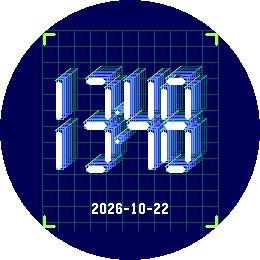
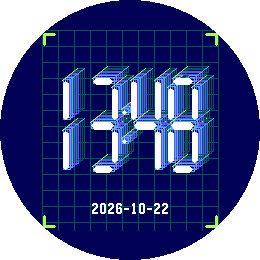
Keep Way Back foreground fixed during echo reversal

Changed region(s): [[0.2154, 0.2462, 0.8308, 0.6769]]

diff --git a/execution/capture_store_media.py b/execution/capture_store_media.py
@@ -20,6 +20,13 @@ WATCHFACE = ROOT / "watchface"
 CAPTURES = ROOT / ".tmp" / "store-media"
 MEDIA = ROOT / "media"
 SIZES = {"emery": (200, 228), "gabbro": (260, 260)}
+FRONT_COLORS = {
+    "color-slices": (255, 255, 255),
+    "amber-mesh": (255, 255, 170),
+    "daylight-dots": (0, 0, 85),
+    "graphite-rings": (255, 255, 255),
+    "green-stars": (255, 255, 255),
+}
 
 # Each pair uses the same fixed 13:48 time and simulated upward wrist angle.
 # Direction 0/1 is the only difference within a pair.
@@ -67,6 +74,18 @@ def has_complete_date(path: Path, look: int, platform: str) -> bool:
         return ink > 90
 
 
+def foreground_mask(image: Image.Image, color: tuple[int, int, int]) -> set[tuple[int, int]]:
+    pixels = image.load()
+    width, height = image.size
+    # Exclude edge decorations, which can be occluded by a moving trail.
+    return {
+        (x, y)
+        for y in range(int(height * 0.25), int(height * 0.74))
+        for x in range(int(width * 0.22), int(width * 0.78))
+        if pixels[x, y] == color
+    }
+
+
 def capture(platform: str) -> None:
     CAPTURES.mkdir(parents=True, exist_ok=True)
     message_keys = json.loads((WATCHFACE / "build" / "js" / "message_keys.json").read_text())
@@ -104,6 +123,10 @@ def compose(platform: str) -> None:
         changed_pixels = changed.width * changed.height - changed.convert("L").histogram()[0]
         if changed_pixels < 200:
             raise ValueError(f"Direction change is not visible: {platform}-{name}: {changed_pixels} pixels")
+        first_front = foreground_mask(pair[0], FRONT_COLORS[name])
+        second_front = foreground_mask(pair[1], FRONT_COLORS[name])
+        if len(first_front) < 100 or first_front != second_front:
+            raise ValueError(f"Foreground moved across direction pair: {platform}-{name}")
         print(f"{platform}-{name}: {changed_pixels} changed pixels across direction pair")
 
     gif = MEDIA / f"way-back-{platform}-options.gif"
@@ -113,6 +136,16 @@ def compose(platform: str) -> None:
     )
     if gif.stat().st_size >= 4_400_000:
         raise ValueError(f"GIF exceeds 4.4 MB: {gif.stat().st_size}")
+    with Image.open(gif) as encoded:
+        if encoded.n_frames != len(frames):
+            raise ValueError(f"GIF lost frames: {gif}")
+        for index, (name, _) in enumerate(COMPOSITIONS):
+            encoded.seek(index * 2)
+            forward = encoded.convert("RGB")
+            encoded.seek(index * 2 + 1)
+            reverse = encoded.convert("RGB")
+            if foreground_mask(forward, FRONT_COLORS[name]) != foreground_mask(reverse, FRONT_COLORS[name]):
+                raise ValueError(f"Encoded GIF shifted foreground: {platform}-{name}")
     print(f"Saved {gif.name}: {gif.stat().st_size} bytes")
 
     # Four stills plus the GIF fill the five listing slots for each platform.

diff --git a/watchface/src/c/main.c b/watchface/src/c/main.c
@@ -427,7 +427,8 @@ static void draw_time(GContext *ctx,GRect bounds,struct tm *local,
     GPoint offset=echo_offset();
     int dx=offset.x;
     int dy=offset.y;
-    GPoint origin=point(bounds,-echo_base()/2,y);
+    // Center the front independently of the trail so direction never nudges time.
+    GPoint origin=point(bounds,0,y);
     if (front_pass) {
       graphics_context_set_text_color(ctx,p.front);
       graphics_draw_text(ctx,label,font,GRect(origin.x,origin.y,200,96),
@@ -455,8 +456,7 @@ static void draw_time(GContext *ctx,GRect bounds,struct tm *local,
   int one_inset=(w-stroke)/2;
   int left_blank=first_digit==1?one_inset:0;
   int right_blank=last_digit==1?w-one_inset-stroke:0;
-  int depth_bias=echo_base()/2;
-  int x=(200-total-left_blank+right_blank)/2-depth_bias;
+  int x=(200-total-left_blank+right_blank)/2;
   int y=62;
   int h=94;
   if (two_hours) { digit(ctx,bounds,hour/10,x,y,w,h,p,front_pass); x+=w+gap; }

diff --git a/knowledge/SESSION.md b/knowledge/SESSION.md
@@ -2,11 +2,11 @@
 
 ## Current Session
 
-**Goal:** Add reversible echo direction and native store media for Way Back.
+**Goal:** Keep Way Back's foreground time fixed while the echo direction reverses, then replace the store media.
 **Agent:** OpenAI Codex (GPT-6.1-sol)
 **Handoff-from:** OpenAI Codex
 **Handoff-type:** continuation
-**Status:** Way Back 0.6.0 is built and independently verified for Emery and Gabbro. Both direction choices and two GIFs plus eight stills are complete. Store listing not created; no physical-watch test.
+**Status:** Way Back 0.6.1 is built and independently verified for Emery and Gabbro. Both store GIFs and eight stills use a fixed foreground. Store listing not created; no physical-watch test.
 
 ## Handoff — 2026-10-22 10:02
 - **Completed**: Chamfered segmented font, six looks, four custom colors, four date choices, optional motion, dual-platform PBW, native Emery and Gabbro captures. Selected complete frames were copied to `media/`.
@@ -17,6 +17,7 @@
 
 ---
 ## Checkpoints
+- 2026-10-22 - Fixed foreground after user caught a jump in the direction GIF. Removed direction-dependent depth bias from segmented and text numeral origins; echoes alone use the reverse and live tilt offsets. Regenerated both native GIFs and eight stills. Every paired PNG and decoded GIF frame retained an identical foreground numeral mask; echo pixels changed by thousands. Live Gabbro opposite-tilt captures changed 3,521 pixels with zero foreground-mask differences. Clean production v0.6.1 PBW, bundle verifier, settings test, JS syntax, Python smoke test, diff check, and fresh independent review passed. Physical-watch checks and RePebble upload remain open.
 - 2026-10-22 - Reversible echo direction and store media final: persisted reverse setting defaults off and flips static depth plus wrist tilt offsets. Native Emery/Gabbro fixture captures show five matched forward/reverse pairs at fixed 13:48 and upward tilt. Reduced echo counts for amber wireframe and graphite serif after contact-sheet review. Final GIFs are 10 frames at 200×228 (31,466 bytes) and 260×260 (37,090 bytes); four stills per target complete each five-slot asset set. Live Gabbro accelerometer check showed opposite directions, and a Gabbro reinstall retained the reverse choice. Clean production v0.6.0 PBW, bundle verifier, settings test, JS syntax, Python smoke test, media checks, diff check, and fresh independent review pass. Physical-watch battery and store publication remain open.
 - 2026-10-22 - Renamed product metadata and Clay settings title to Way Back while retaining UUID `2062ace2-4528-4975-95b6-fc2cbf11de0d`. Clean production v0.5.1 build contains Emery and Gabbro. Bundle verifier, settings test, JS syntax, Python smoke test, and diff check pass. Fresh independent review confirmed package identity and release copy. Publishing and physical-watch validation remain open.
 - 2026-10-22 - Centering and echoes final: default 13:48 and 23:48 full-ink centers measured at x=100.5 on Emery and x=130.5 on Gabbro. Echo 1, 3, 12 and Bodoni 12 captured natively; 12-layer palette subdued after first crowded iteration. The 12-echo setting survived a production PBW reinstall. A transitional media capture and invalid persisted-value fallback were corrected during fresh review. Final 0.5.0 dual-target PBW (713301 bytes), settings test, smoke test, JS syntax, diff check, and independent recheck passed. Physical-watch motion/battery and store media GIF remain open.

diff --git a/knowledge/procedural/build_and_check.md b/knowledge/procedural/build_and_check.md
@@ -15,6 +15,6 @@ timestamp: "2026-10-22T10:01:05-05:00"
 9. For style comparisons, set `GRIDCORE_HOUR=12 GRIDCORE_MINUTE=15 GRIDCORE_FONT=0 GRIDCORE_DECORATION=0` in the fixture build, then send `SETTING_FONT` (message key 10015) or `SETTING_DECORATION` (message key 10014) with `pebble send-app-message`. Capture all choices at the same time on each target. Clean and rebuild production after fixture capture.
 10. For background comparisons, also set `GRIDCORE_BACKGROUND=0` in the fixture build. Send `SETTING_BACKGROUND` (message key 10016, values 0–11) while holding the look, font, date, and decoration constant. Inspect all 12 native captures on Emery and Gabbro. Clean and rebuild production afterward.
 11. For echo comparisons, set `GRIDCORE_ECHOES=3` in the fixed-time fixture, then send `SETTING_ECHOES` (message key 10017, values 1–12). Capture counts 1, 3, and 12 on both targets with the full time and date visible. Clean and rebuild production afterward.
-12. For store media, clean and build a fixed fixture at 13:48 with `GRIDCORE_FIXTURE=1 GRIDCORE_HOUR=13 GRIDCORE_MINUTE=48 GRIDCORE_MODE=0 GRIDCORE_DATE=1 GRIDCORE_ANGLE_X=0 GRIDCORE_ANGLE_Y=3 GRIDCORE_ECHOES=8`. Install it on Emery, then run `python3 execution/capture_store_media.py --capture emery` from the project root. Gracefully stop that emulator with `pebble kill`, install on Gabbro, and capture with `--capture gabbro`. Run `python3 execution/capture_store_media.py --compose` to make two ten-frame native-resolution GIFs and four stills per target in `media/`. The script reads generated message keys, retries transitional screenshots, checks paired direction differences, and enforces the project's 4.4 MB GIF budget. Inspect the contact sheet or individual frames before using them in a listing. Clean and rebuild production without fixture variables afterward.
+12. For store media, clean and build a fixed fixture at 13:48 with `GRIDCORE_FIXTURE=1 GRIDCORE_HOUR=13 GRIDCORE_MINUTE=48 GRIDCORE_MODE=0 GRIDCORE_DATE=1 GRIDCORE_ANGLE_X=0 GRIDCORE_ANGLE_Y=3 GRIDCORE_ECHOES=8`. Install it on Emery, then run `python3 execution/capture_store_media.py --capture emery` from the project root. Gracefully stop that emulator with `pebble kill`, install on Gabbro, and capture with `--capture gabbro`. Run `python3 execution/capture_store_media.py --compose` to make two ten-frame native-resolution GIFs and four stills per target in `media/`. The script reads generated message keys, retries transitional screenshots, checks paired direction differences and identical foreground masks, and enforces the project's 4.4 MB GIF budget. Inspect the contact sheet or individual frames before using them in a listing. Clean and rebuild production without fixture variables afterward.
 
 Avoid `-v` on `pebble install`: verbose output can include the emulator's OAuth token. Keep `.lock-waf*` and `.tmp/` out of Git. If Emery boot hangs, back up its SDK data, run `pebble wipe` without `--everything`, then retry. The wipe affects shared emulator state.

diff --git a/knowledge/DECISIONS.md b/knowledge/DECISIONS.md
@@ -43,7 +43,7 @@
 
 ## 2026-10-22 — Visible clock centering and selectable echoes
 
-- Center the visible clock, including its nominal extrusion, instead of only centering equal-width digit cells. Account for the narrow `1` at either end of the time. Keep tilt motion separate from this fixed layout offset so the foreground never shifts with the wrist.
+- Historical choice: center the visible clock, including its nominal extrusion, instead of only centering equal-width digit cells. Account for the narrow `1` at either end of the time. The depth-dependent part of this choice was superseded by the fixed-foreground decision below.
 - Offer 1–12 echoes, defaulting to three for existing installations. Grow the maximum reach gradually to 21 pixels at twelve echoes, and use progressively quieter colors for distant layers above three echoes. Preserve a fixed foreground for both segmented and text numeral styles.
 
 ## 2026-10-22 — Product name
@@ -52,5 +52,9 @@
 
 ## 2026-10-22 — Echo direction and store media
 
-- Add a persisted reverse echo direction toggle, off by default. Multiply both the static depth and wrist-driven offsets by the selected direction, then recenter the whole time group so either trail orientation fits the screen. The foreground remains fixed while the wrist moves.
+- Add a persisted reverse echo direction toggle, off by default. Multiply both the static depth and wrist-driven offsets by the selected direction. The original depth-dependent group recentering was superseded by the fixed-foreground decision below.
 - Use native fixed-time emulator captures for store media. Pair normal and reversed trails at the same simulated wrist angle, then vary numeral style, palette, and background between pairs. Keep the GIFs at native target resolution so every frame represents the watch renderer.
+
+## 2026-10-22 — Fixed foreground during direction changes
+
+- Center the foreground numerals without a depth offset. Reverse direction changes only the echo vector, so the front has the same pixels in paired frames. Keep optical compensation for a narrow `1`. Check identical front-color pixel masks across every matched store-media pair before accepting GIFs.

diff --git a/README.md b/README.md
@@ -20,7 +20,7 @@ The `media/` folder includes native day and night captures for both watch shapes
 
 ## Store media
 
-The animated previews hold the time and simulated wrist angle at 13:48 while each pair flips the echo direction. Across five pairs they show segmented, wire, digital, serif, and geometric numerals; blue, amber, daylight, grayscale, and green palettes; and five background patterns.
+The animated previews hold the time and simulated wrist angle at 13:48 while each pair flips the echo direction. The foreground digits remain in exactly the same position within each pair. Across five pairs they show segmented, wire, digital, serif, and geometric numerals; blue, amber, daylight, grayscale, and green palettes; and five background patterns.
 
 ![Way Back options on Pebble Time 2](media/way-back-emery-options.gif)
 ![Way Back options on Pebble Round 2](media/way-back-gabbro-options.gif)
@@ -55,9 +55,9 @@ Matching Round 2 captures use the `gabbro-background-*.png` names. Additional Em
 
 The `media/` folder also contains Graphite and custom teal captures from the Emery emulator.
 
-## Current look renders
+## Earlier look studies
 
-These native captures use the centered 13:48 layout and the default three echoes. Custom green demonstrates a color combination beyond the built-in looks.
+These earlier native captures show the six looks at 13:48 with the default three echoes. They predate the fixed-foreground correction; the store media above shows the current layout. Custom green demonstrates a color combination beyond the built-in looks.
 
 | Look | Pebble Time 2 | Pebble Round 2 |
 |---|---|---|
@@ -107,4 +107,4 @@ The local PBW is `watchface/build/watchface.pbw`. Native captures and emulator b
 
 ## Release state
 
-Version 0.6.0 is a local dual-platform build. It has not been uploaded to the Pebble/RePebble store and has not been tested on physical watches.
+Version 0.6.1 is a local dual-platform build. It has not been uploaded to the Pebble/RePebble store and has not been tested on physical watches.

diff --git a/task.md b/task.md
@@ -189,7 +189,7 @@ timestamp: "2026-10-19T22:11:00-05:00"
 - [ ] Upload the production PBW to the Pebble Developer Dashboard.
 - [ ] Confirm the saved Emery media in the dashboard.
 - [ ] Confirm the saved Gabbro media in the dashboard.
-- [ ] Confirm the public listing serves version 0.6.0 to both targets.
+- [ ] Confirm the public listing serves version 0.6.1 to both targets.
 
 ## Way Back product rename — 2026-10-22
 
@@ -225,3 +225,14 @@ timestamp: "2026-10-19T22:11:00-05:00"
 - [x] Gabbro has four selected still screenshots from the GIF compositions.
 - [x] Each final screenshot retains legible time and date at native resolution.
 - [x] A fresh verifier reviews the final media.
+
+## Fixed foreground during echo transitions — 2026-10-22
+
+- [x] Foreground numeral coordinates are independent of echo direction.
+- [x] Foreground numeral coordinates are independent of wrist tilt.
+- [x] Echoes move to opposite sides at the same simulated tilt when direction changes.
+- [x] Matched GIF frames retain the same foreground pixel mask.
+- [x] Emery store media uses the corrected renderer.
+- [x] Gabbro store media uses the corrected renderer.
+- [x] The final production PBW passes the dual-target verifier.
+- [x] A fresh verifier reviews the corrected animation.

diff --git a/knowledge/FAILURES/2026-10-22_foreground_jump/context.md b/knowledge/FAILURES/2026-10-22_foreground_jump/context.md
@@ -1,0 +1,21 @@
+---
+generated_by: "OpenAI Codex (GPT-6.1-sol)"
+timestamp: "2026-10-22T15:40:28-05:00"
+---
+# Foreground jumped when echo direction changed
+
+## Attempt
+
+Way Back 0.6.0 reversed the trail and shifted the foreground by half the direction-dependent depth to keep the combined silhouette centered. The initial paired store GIFs used that renderer.
+
+## Why it failed
+
+The main time moved when the reverse toggle changed. The user expected only the receding echoes to change direction. The foreground shift was visible across GIF pairs despite both frames using the same time and simulated wrist angle.
+
+## Correct path
+
+Center the foreground time without using echo direction, reach, or tilt. Apply the reverse sign only to echo offsets. Version 0.6.1 uses this layout and regenerated native Emery and Gabbro store media. The media workflow now rejects pairs with different foreground numeral masks, including after GIF encoding. A live Gabbro tilt comparison changed 3,521 pixels while the foreground mask changed zero.
+
+## Release boundary
+
+The corrected bundle and media are local. Physical-watch checks and RePebble upload remain open.

diff --git a/knowledge/INDEX.md b/knowledge/INDEX.md
@@ -5,7 +5,8 @@
 | [context.md](context.md) | domain | Way Back identity, stack, constraints |
 | [SESSION.md](SESSION.md) | log | Active work and checkpoints |
 | [DECISIONS.md](DECISIONS.md) | log | 2026-10-22: numeral, decoration, background, centering, echo direction, media, and Way Back naming decisions |
-| [ERRORS.md](ERRORS.md) | log | 2026-10-22: emulator recovery and background color quantization fixes |
+| [ERRORS.md](ERRORS.md) | log | 2026-10-22: emulator recovery, color quantization, and foreground shift fixes |
+| [FAILURES/2026-10-22_foreground_jump/context.md](FAILURES/2026-10-22_foreground_jump/context.md) | failure | 2026-10-22: direction-dependent foreground centering caused visible GIF jumps |
 | [domain/deps.md](domain/deps.md) | domain | 2026-10-22: Pebble SDK, Clay, serif font assets, and optional Pillow media tooling |
 | [procedural/build_and_check.md](procedural/build_and_check.md) | procedural | 2026-10-22: dual-target build and fixed-time style/background/echo/store capture workflow |
 | [REFLECTIONS.jsonl](REFLECTIONS.jsonl) | reflection | 2026-10-22: emulator and evidence lessons |

diff --git a/knowledge/ERRORS.md b/knowledge/ERRORS.md
@@ -28,3 +28,10 @@ Record deterministic errors, root causes, and fixes here.
 - Cause: the old Tunnel grid color `0x392B23` quantized to the same Pebble palette value as its near-black background.
 - Fix: change the Tunnel grid color to `0x5A3A1B`, which is visibly distinct on the device palette.
 - Graduated-to: color quantization must be checked on native screenshots when adding patterns to an existing look.
+
+# 2026-10-22 — Foreground jumped when echo direction flipped
+
+- Symptom: the main time appeared to shift between paired forward/reverse GIF frames even though the user expected only the echoes to move.
+- Cause: both segmented and text layout subtracted half of a direction-dependent echo base from the foreground origin. Reversing the trail therefore also reversed the foreground offset.
+- Fix: center the foreground independently of echo depth and direction. Keep direction multiplication inside the echo offset alone.
+- Graduated-to: `execution/capture_store_media.py` rejects paired frames when the foreground numeral pixel mask changes.
